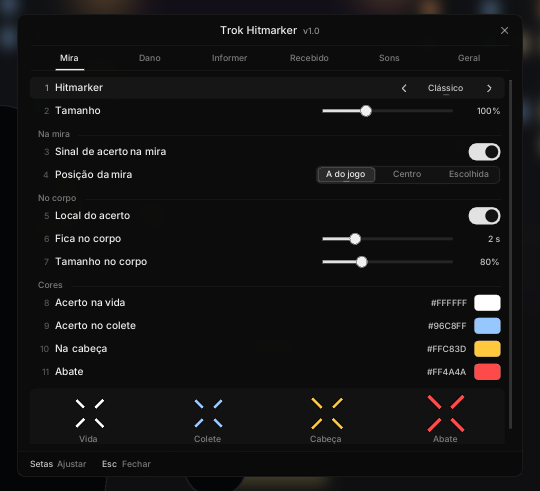
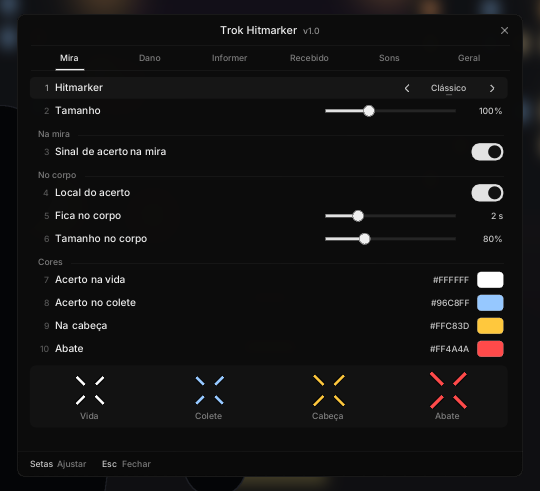
Trok Hitmarker concept: crosshair signal only tracks the crosshair
No crosshair position option: the signal is always drawn where the
game drew the crosshair that frame.

Claude-Session: https://claude.ai/code/session_01PybPBz7ZnmDEjHWo6B5FJ6

diff --git a/trok-hit/src/options.h b/trok-hit/src/options.h
@@ -18,11 +18,9 @@ struct Options {
 
     // ---- Mira: o hitmarker
     int marker = 0;          // 0 Classico (X), 1 Discreto, 2 Anel
-    bool onAim = true;       // sinal de acerto na mira
+    bool onAim = true;       // sinal de acerto onde a mira esta (le onde o GTA desenhou a mira neste quadro, entao
+                             // segue mod que centraliza ou sobe a mira; sem opcao de lugar)
     int markerSize = 100;    // %
-    // A mira de verdade: 0 segue a do jogo (le onde o GTA desenhou a mira neste quadro, entao vale com mod que
-    // centraliza ou sobe a mira), 1 centro da tela, 2 lugar escolhido no modo Mover (mira desenhada por outro mod)
-    int aim = 0;
 
     // ---- Numeros de dano
     int numbers = 0;         // 0 sobem do personagem, 1 sobem na tela (ao lado da mira), 2 desligado
@@ -68,7 +66,6 @@ struct Options {
     // ---- Posicoes
     Place given = {0.60f, 0.40f};   // informer: dano dado (o lugar do damage informer antigo)
     Place taken = {0.30f, 0.40f};   // informer: dano levado
-    Place aimAt = {0.50f, 0.50f};   // a mira, quando "lugar escolhido"
 };
 
 Options& Get();

diff --git a/trok-hit/src/menu.cpp b/trok-hit/src/menu.cpp
@@ -88,8 +88,6 @@ void TabMira(Rows& r, float x, float w) {
     r.Slider("Tamanho", &o.markerSize, 50, 200, 10, "%d%%", d.markerSize);
     r.Section("Na mira");
     r.Toggle("Sinal de acerto na mira", &o.onAim);
-    static const char* const aim[] = {"A do jogo", "Centro", "Escolhida"};
-    r.Segmented("Posi\xC3\xA7\xC3\xA3o da mira", &o.aim, aim, 3, d.aim);
     r.Section("No corpo");
     r.Toggle("Local do acerto", &o.hitLocal);
     r.Slider("Fica no corpo", &o.hitLocalTime, 1, 5, 1, "%d s", d.hitLocalTime);

diff --git a/trok-hit/README.md b/trok-hit/README.md
@@ -19,7 +19,7 @@ Indicador de dano para o SA-MP 0.3.7 R1, no estilo da casa: sinal de acerto na m
 
 ## Mira e corpo
 
-- **Sinal na mira:** desenhado onde a mira está naquele quadro. O mod lê onde o próprio GTA desenhou a mira, então mod que centraliza ou sobe a mira não precisa de ajuste (`docs/08-mira-seguida.png`). Se outro mod esconde a mira do GTA e desenha a dele, o menu tem "Centro" ou "Escolhida" (arrastada no modo Mover).
+- **Sinal na mira:** desenhado onde a mira está naquele quadro. O mod lê onde o próprio GTA desenhou a mira, então mod que centraliza ou sobe a mira não precisa de ajuste nem de opção no menu (`docs/08-mira-seguida.png`).
 - **Local do acerto:** a marca fica na parte do corpo que o tiro pegou (cabeça, tronco, braço, perna) por 1 a 5 s, acompanhando o alvo quando ele anda (`docs/06-local-do-acerto.png`).
 
 ## Sons
